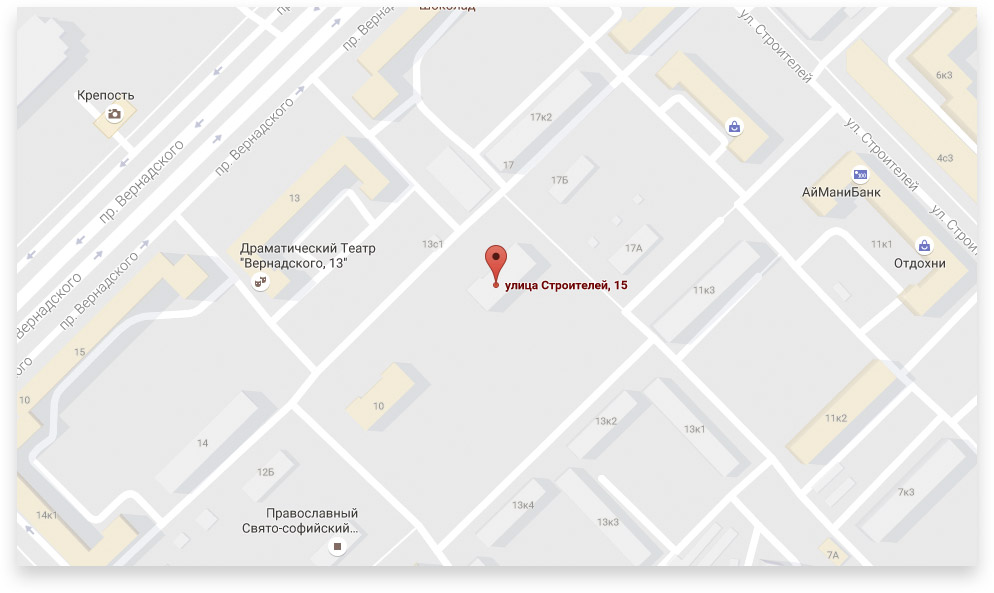
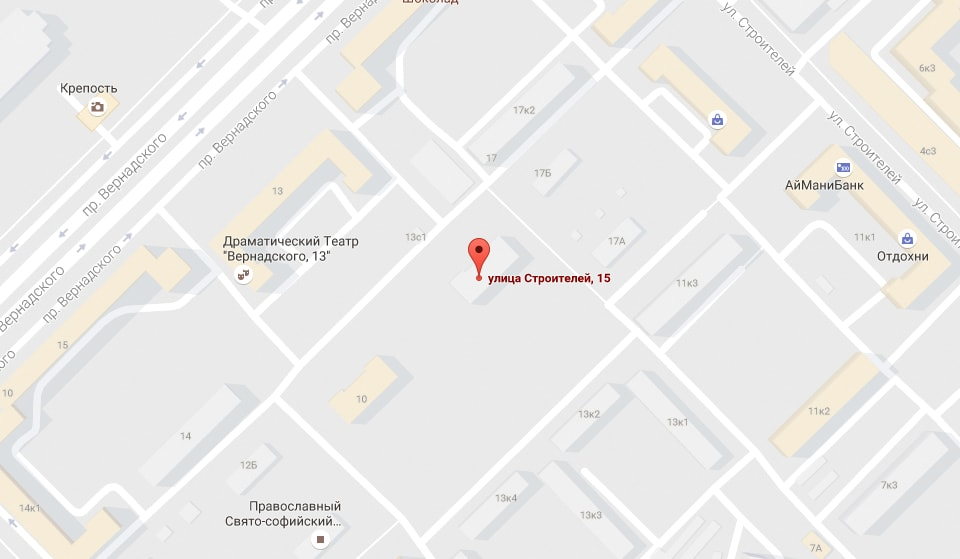
Оформил встплывающую карту

diff --git a/css/style.css b/css/style.css
@@ -1774,6 +1774,7 @@ input[type="checkbox"] + label:active::before {
 
 /* WRITE-US FORM */
 .write-us {
+  display: none;
   position: fixed;
   width: 960px;
   top: 50%;
@@ -1784,7 +1785,7 @@ input[type="checkbox"] + label:active::before {
   padding-bottom: 70px;
   padding-left: 100px;
   padding-right: 100px;
-  background-color: #fff;
+  background-color: white;
   box-shadow:
     0px 10px 20px 0px rgba(0, 0, 0, 0.2),
     0px 20px 40px 0px rgba(0, 0, 0, 0.75);
@@ -1924,4 +1925,56 @@ input[type="checkbox"] + label:active::before {
 /* BIG MAP */
 .big-map {
   display: none;
+  position: fixed;
+  width: 960px;
+  height: 559px;
+  top: 50%;
+  left: 50%;
+  transform: translate(-50%, -50%);
+  box-sizing: border-box;
+  box-shadow:
+    0px 10px 20px 0px rgba(0, 0, 0, 0.2),
+    0px 20px 40px 0px rgba(0, 0, 0, 0.75);
+  z-index: 2;
+}
+
+.close-big-map {
+  position: relative;
+  top: -545px;
+  right: -873px;
+  width: 55px;
+  height: 55px;
+  border: none;
+  border-radius: 50%;
+  background-color: #ffc600;
+  opacity: 0.5;
+}
+
+.close-big-map::before,
+.close-big-map::after {
+  position: absolute;
+  content: "";
+  top: 26px;
+  left: 13px;
+  width: 28px;
+  height: 2px;
+  background-color: white;
+  z-index: 2;
+}
+
+.close-big-map::after {
+  transform: rotate(45deg);
+}
+
+.close-big-map::before {
+  transform: rotate(-45deg);
+}
+
+.close-big-map:hover {
+  opacity: 1;
+}
+
+.close-big-map:active::before,
+.close-big-map:active::after {
+  opacity: 0.3;
 }
